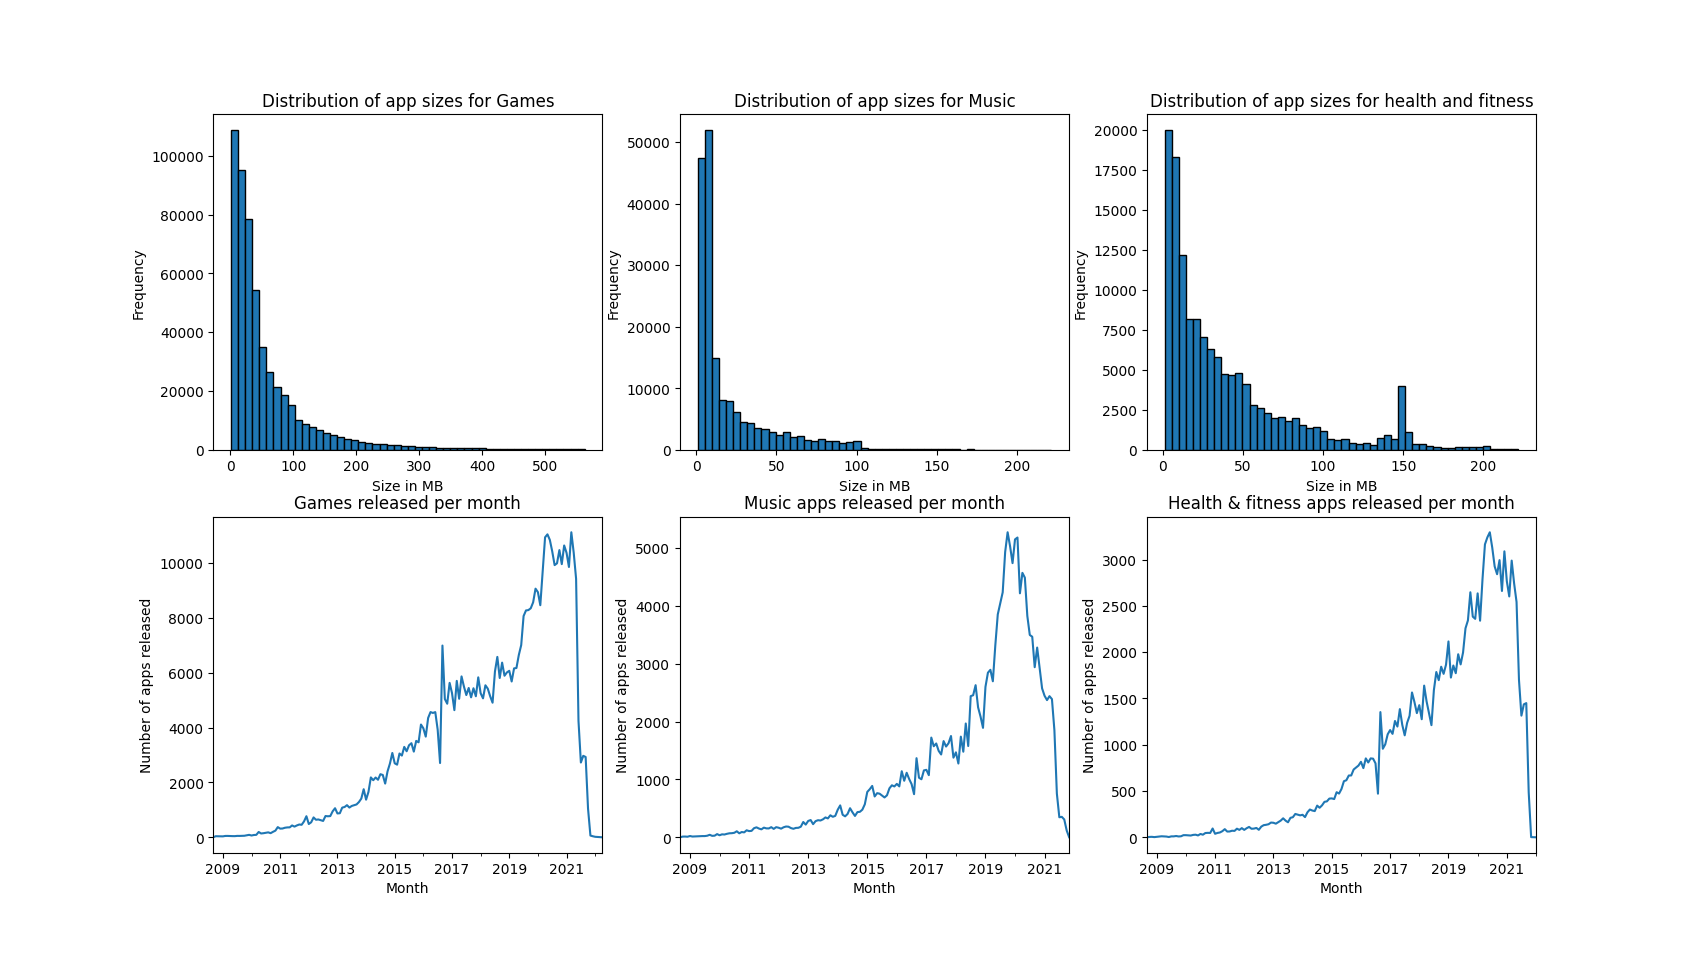
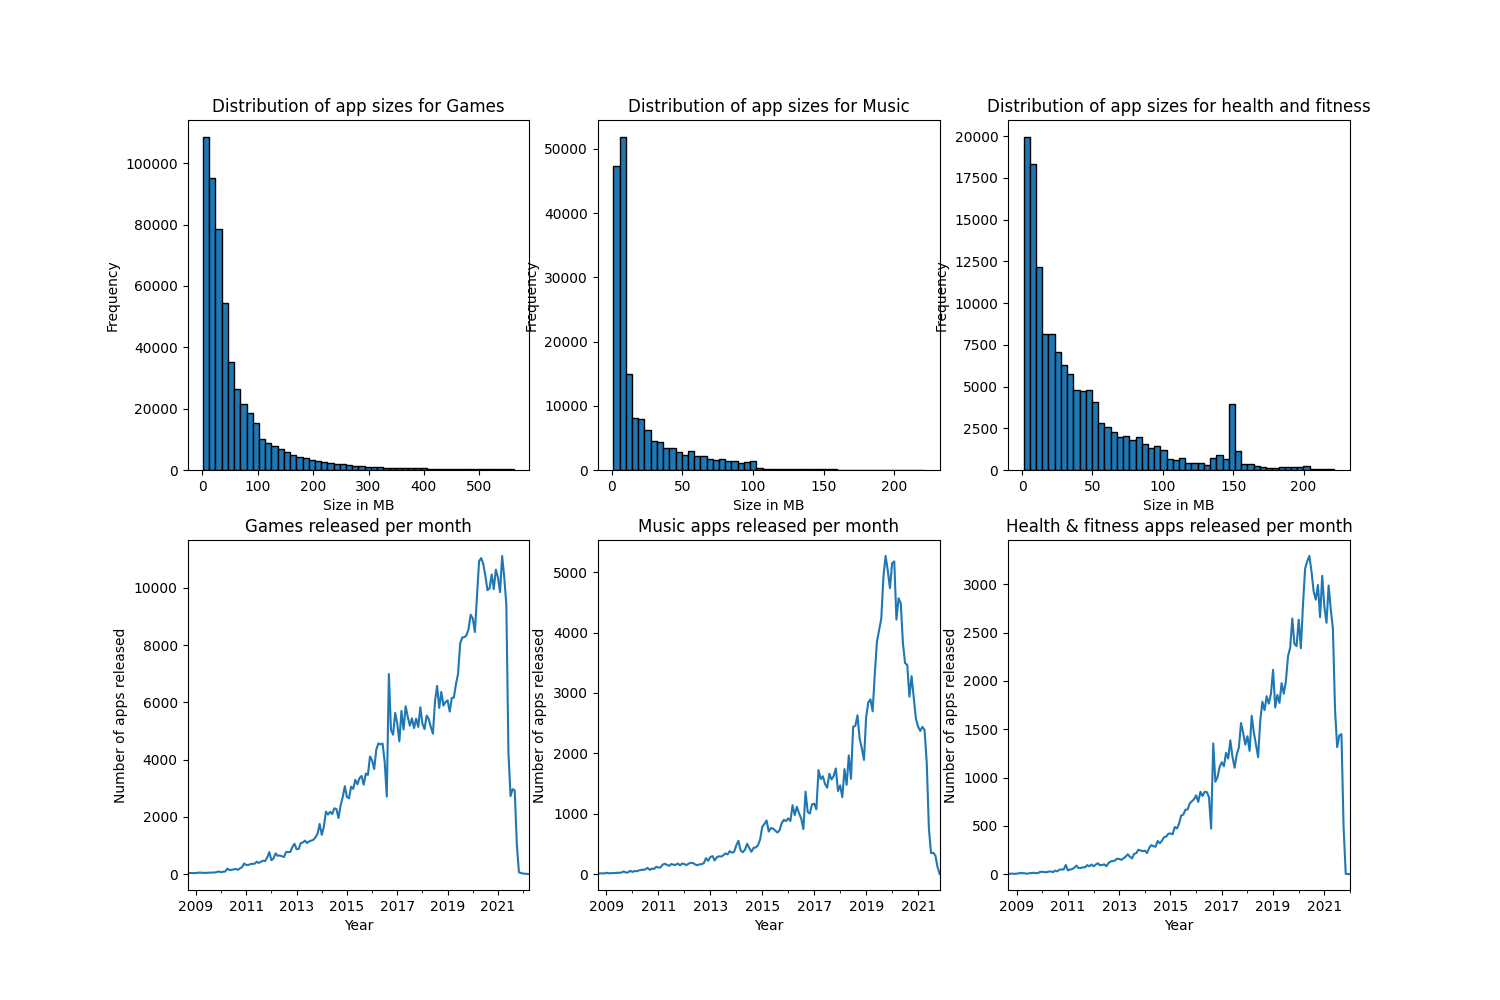
updated axes labels

diff --git a/data_challenge.py b/data_challenge.py
@@ -76,7 +76,7 @@ games_monthly_counts['year_month'] = games_monthly_counts['Released'].dt.to_peri
 games_year_month = games_monthly_counts.groupby('year_month').size()
 games_year_month.plot(kind='line',ax=axs[1,0])
 axs[1,0].set_title('Games released per month')
-axs[1,0].set_xlabel('Month')
+axs[1,0].set_xlabel('Year')
 axs[1,0].set_ylabel('Number of apps released')
 
 music_monthly_counts['Released'] = pd.to_datetime(music_monthly_counts['Released'], utc=True)
@@ -84,7 +84,7 @@ music_monthly_counts['year_month'] = music_monthly_counts['Released'].dt.to_peri
 music_year_month = music_monthly_counts.groupby('year_month').size()
 music_year_month.plot(kind='line',ax=axs[1,1])
 axs[1,1].set_title('Music apps released per month')
-axs[1,1].set_xlabel('Month')
+axs[1,1].set_xlabel('Year')
 axs[1,1].set_ylabel('Number of apps released')
 
 health_monthly_counts['Released'] = pd.to_datetime(health_monthly_counts['Released'], utc=True)
@@ -92,7 +92,7 @@ health_monthly_counts['year_month'] = health_monthly_counts['Released'].dt.to_pe
 health_year_month = health_monthly_counts.groupby('year_month').size()
 health_year_month.plot(kind='line',ax=axs[1,2])
 axs[1,2].set_title('Health & fitness apps released per month')
-axs[1,2].set_xlabel('Month')
+axs[1,2].set_xlabel('Year')
 axs[1,2].set_ylabel('Number of apps released')
 
 #counting largest 10 apps by size per year
